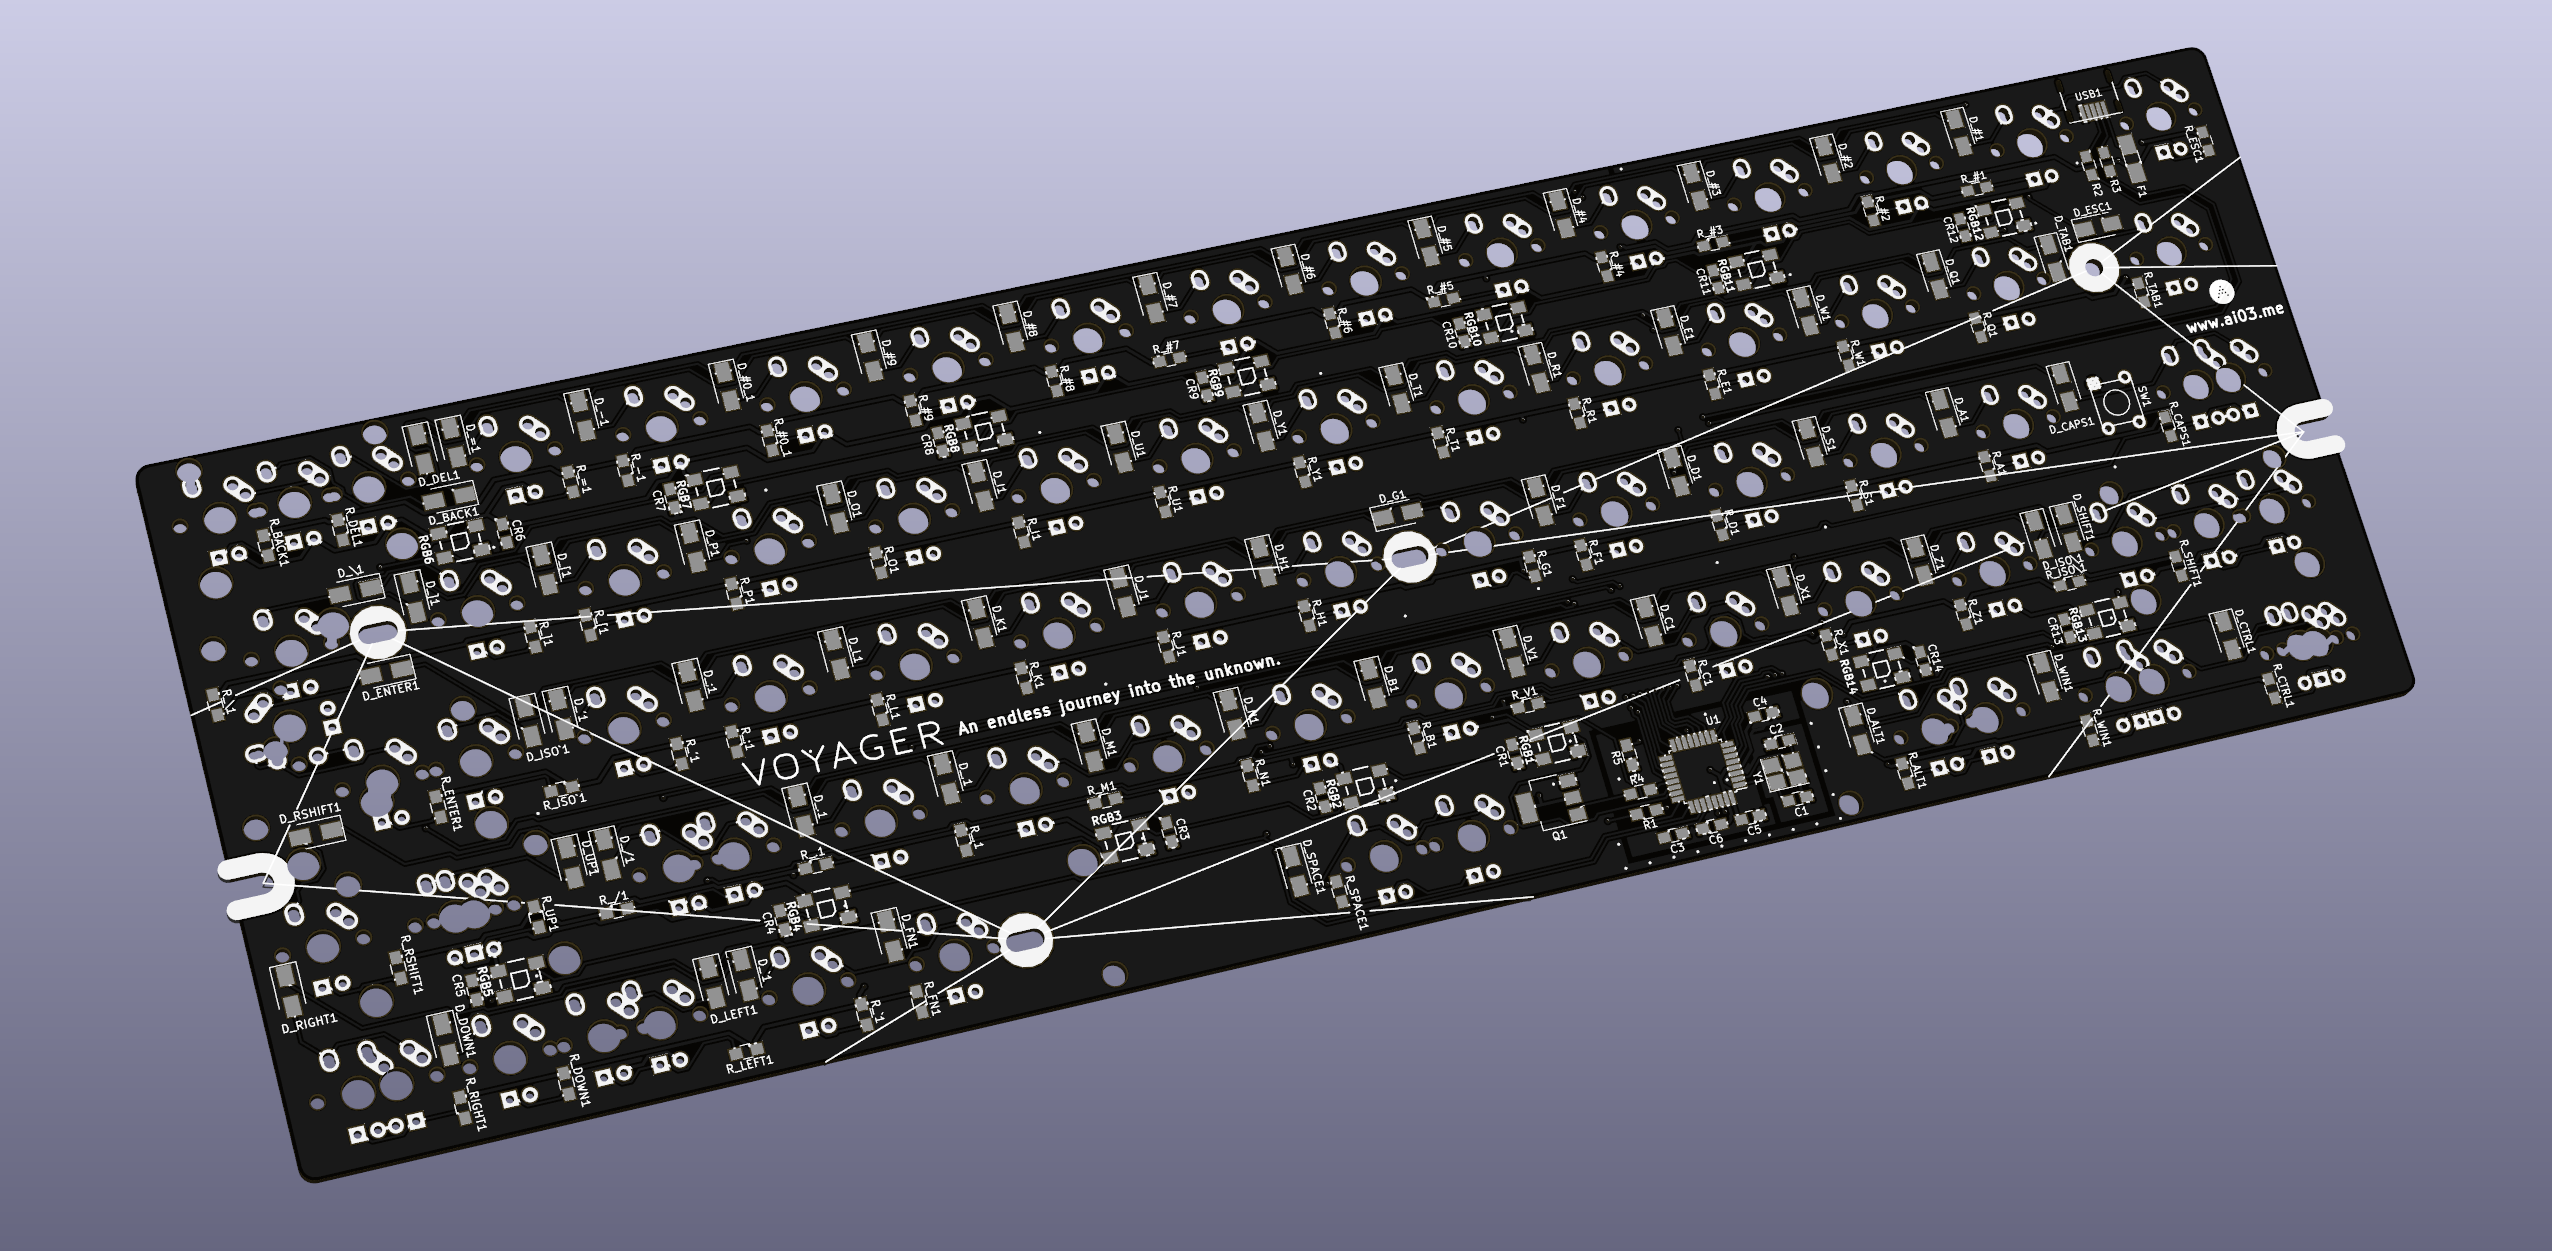
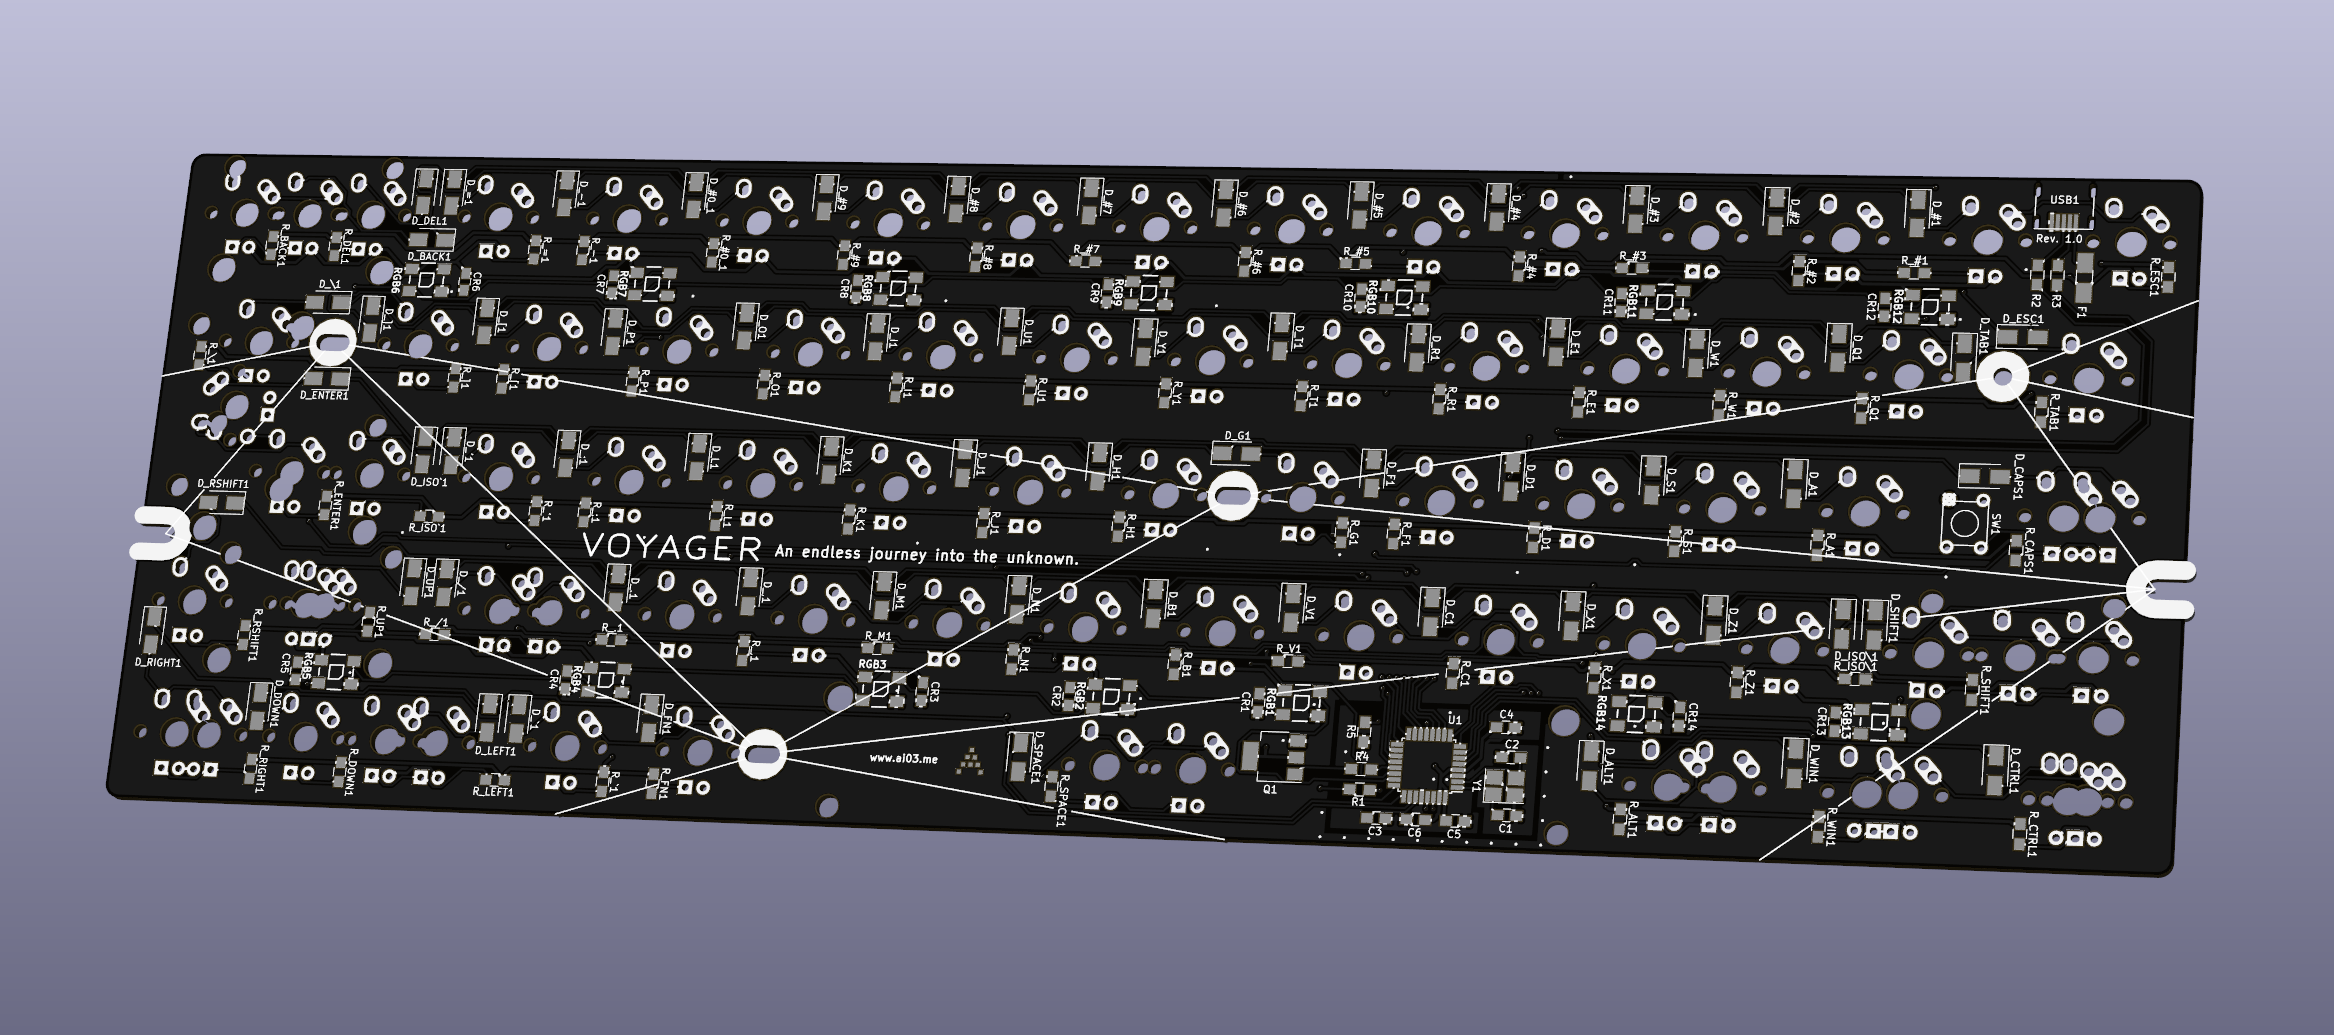
Update renders and readme to 1.0 release

diff --git a/README.md b/README.md
@@ -1,9 +1,10 @@
 # Voyager
 Voyager 60% Keyboard PCB
 
-![Front render](https://raw.githubusercontent.com/ai03-2725/Voyager/master/Renders/Front.png?rev=2)
+![Front render](https://raw.githubusercontent.com/ai03-2725/Voyager/master/Renders/Front.png?rev=1.0)
 
 A simple MX/Alps 60% board that just works.
+Revision 1.0 released 2017-10-23.
 
 Layouts:
 
